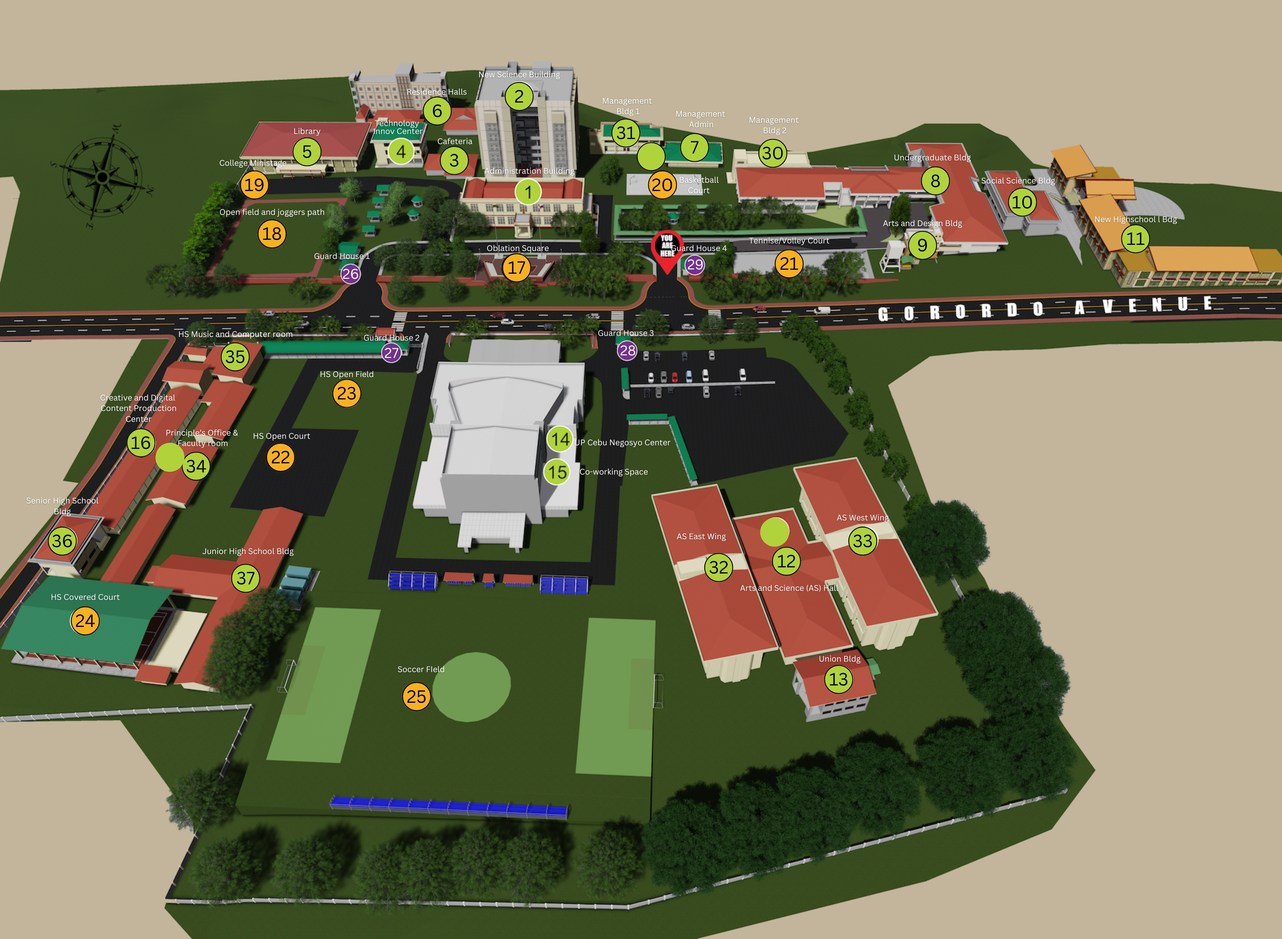
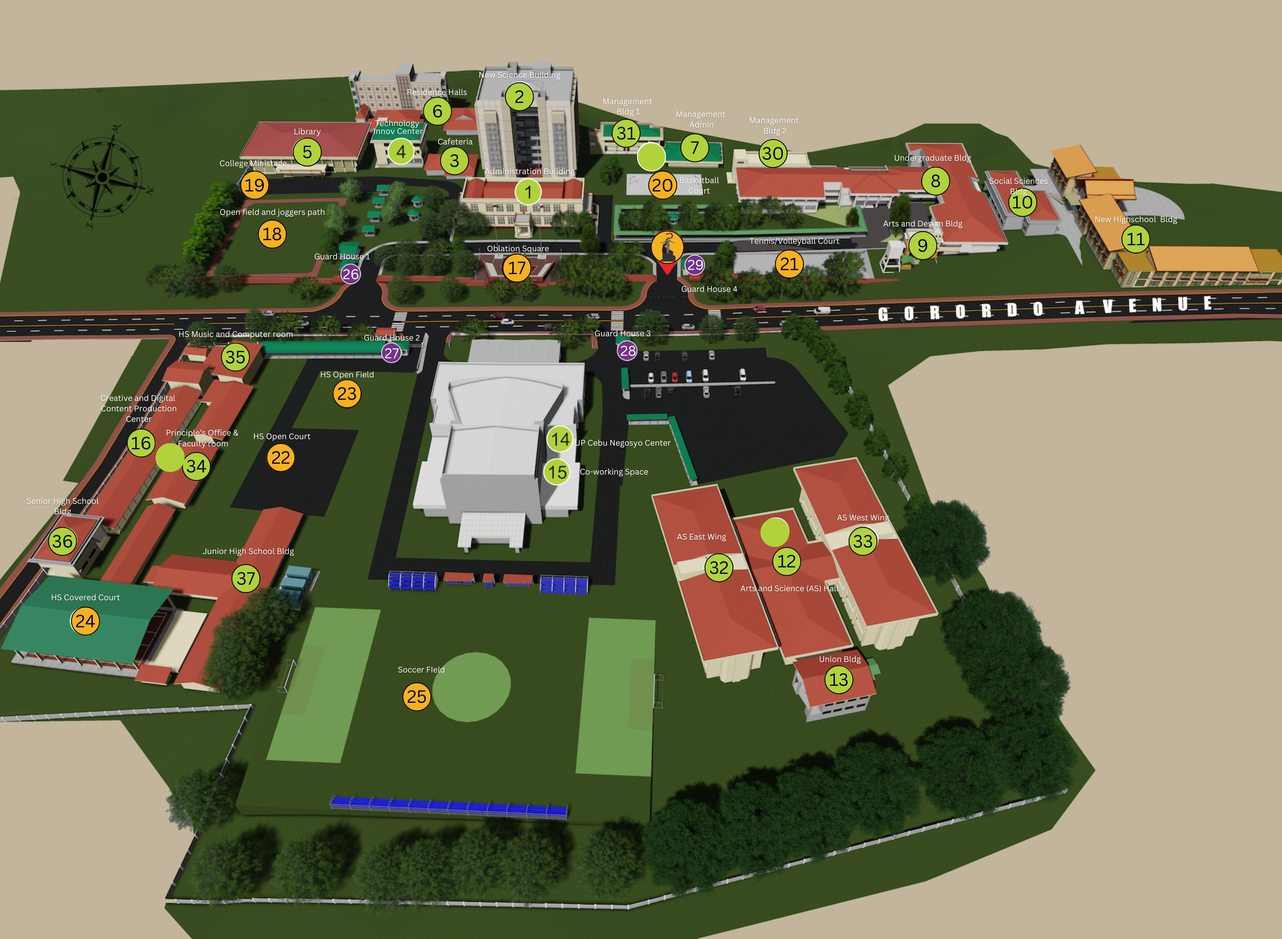
updated changes to legend

diff --git a/RoamMateGUI/roam-school/mainwindow.cpp b/RoamMateGUI/roam-school/mainwindow.cpp
@@ -1,5 +1,6 @@
 #include "mainwindow.h"
 #include "ui_mainwindow.h"
+#include "imagewindow.h"
 #include "dijkstra_algorithm.h"
 #include <QFile>
 #include <cstring>
@@ -26,9 +27,8 @@ MainWindow::MainWindow(QWidget *parent)
 
     QPixmap backgroundImage(":/resources/files/school-map.jpg");
 
-
     // Scale the background image
-    backgroundImage = backgroundImage.scaled(backgroundImage.size() * 0.5); // Increase size by a factor of 1.25
+    backgroundImage = backgroundImage.scaled(backgroundImage.size() * 0.5);
 
     // Create a label to display the background image
     QLabel *backgroundLabel = new QLabel;
@@ -41,16 +41,17 @@ MainWindow::MainWindow(QWidget *parent)
     setCentralWidget(scrollArea);
 
     // Create a widget to overlay on top of the background image
-    QWidget *overlayWidget = new QWidget(this);
-    overlayWidget->setGeometry(10, 10, 400, 350);  // Adjust the size and position as needed
+    overlayWidget1 = new QWidget(this);
+    overlayWidget1->setGeometry(10, 10, 400, 350);
 
     // Define the custom stylesheet
     QString stylesheet = R"(
-        QWidget#overlayWidget {
+        QWidget#overlayWidget1 {
             background-color: rgba(102, 25, 19, 200);
             border: 1px solid #000000;
             border-radius: 10px;
         }
+
         QLabel {
             font-size: 14px;
             font-weight: bold;
@@ -86,22 +87,25 @@ MainWindow::MainWindow(QWidget *parent)
             width: auto;
             border: none;
         }
+        QToolButton#toggleButton2 {
+            background-color: white;
+        }
     )";
 
-    // Apply the stylesheet to the overlay widget and its children
-    overlayWidget->setObjectName("overlayWidget");
-    overlayWidget->setStyleSheet(stylesheet);
+    // Apply the stylesheet to the overlay widgets and their children
+    overlayWidget1->setObjectName("overlayWidget1");
+    overlayWidget1->setStyleSheet(stylesheet);
 
-    // Create labels and comboboxes
-    QLabel *sourceLabel = new QLabel("Source:", overlayWidget);
-    QLabel *destinationLabel = new QLabel("Destination:", overlayWidget);
+    // Create labels and comboboxes for the first overlay widget
+    QLabel *sourceLabel = new QLabel("Source:", overlayWidget1);
+    QLabel *destinationLabel = new QLabel("Destination:", overlayWidget1);
 
     // Set alignment for the labels
     sourceLabel->setAlignment(Qt::AlignRight | Qt::AlignVCenter);
     destinationLabel->setAlignment(Qt::AlignRight | Qt::AlignVCenter);
 
-    sourceBox = new QComboBox(overlayWidget);
-    destinationBox = new QComboBox(overlayWidget);
+    sourceBox = new QComboBox(overlayWidget1);
+    destinationBox = new QComboBox(overlayWidget1);
 
     QString filepath = ":/resources/files/mapping.csv";
     readToComboBoxFromFile(filepath);
@@ -112,35 +116,33 @@ MainWindow::MainWindow(QWidget *parent)
     connect(sourceBox, QOverload<int>::of(&QComboBox::currentIndexChanged), this, &MainWindow::on_sourceBox_currentIndexChanged);
     connect(destinationBox, QOverload<int>::of(&QComboBox::currentIndexChanged), this, &MainWindow::on_destinationBox_currentIndexChanged);
 
-
-    // Create the additional widgets
-    outputTextEdit = new QPlainTextEdit(overlayWidget);
-    outputLineEdit = new QLineEdit(overlayWidget);
+    // Create the additional widgets for the first overlay widget
+    outputTextEdit = new QPlainTextEdit(overlayWidget1);
+    outputLineEdit = new QLineEdit(overlayWidget1);
     outputTextEdit->setReadOnly(true);
     outputLineEdit->setReadOnly(true);
 
-    QPushButton *submitButton = new QPushButton("Submit", overlayWidget);
+    QPushButton *submitButton = new QPushButton("Submit", overlayWidget1);
     // Connect the clicked signal of the QPushButton to the submitButtonClicked slot function
     connect(submitButton, &QPushButton::clicked, this, &MainWindow::submitButtonClicked);
 
-    // Create labels
-    QLabel *outputTextLabel = new QLabel("Shortest Path:", overlayWidget);
-    QLabel *outputLineEditLabel = new QLabel("Distance Covered:", overlayWidget);
+    // Create labels for the first overlay widget
+    QLabel *outputTextLabel = new QLabel("Shortest Path:", overlayWidget1);
+    QLabel *outputLineEditLabel = new QLabel("Distance Covered:", overlayWidget1);
 
-    // Create a layout for the overlay widget
-    QVBoxLayout *overlayLayout = new QVBoxLayout(overlayWidget);
-    overlayLayout->addWidget(sourceLabel);
-    overlayLayout->addWidget(sourceBox);
-    overlayLayout->addWidget(destinationLabel);
-    overlayLayout->addWidget(destinationBox);
-    overlayLayout->addWidget(outputTextLabel);
-    overlayLayout->addWidget(outputTextEdit);
-    overlayLayout->addWidget(outputLineEditLabel);
-    overlayLayout->addWidget(outputLineEdit);
-    overlayLayout->addWidget(submitButton);
+    // Create a layout for the first overlay widget
+    QVBoxLayout *overlayLayout1 = new QVBoxLayout(overlayWidget1);
+    overlayLayout1->addWidget(sourceLabel);
+    overlayLayout1->addWidget(sourceBox);
+    overlayLayout1->addWidget(destinationLabel);
+    overlayLayout1->addWidget(destinationBox);
+    overlayLayout1->addWidget(outputTextLabel);
+    overlayLayout1->addWidget(outputTextEdit);
+    overlayLayout1->addWidget(outputLineEditLabel);
+    overlayLayout1->addWidget(outputLineEdit);
+    overlayLayout1->addWidget(submitButton);
 
     // Create the toggle button
-
     QToolButton *toggleButton = new QToolButton(this);
     toggleButton->setIcon(QIcon(":/resources/files/magnifying.png")); // Add your icon here
     toggleButton->setIconSize(QSize(100, 100));
@@ -148,12 +150,23 @@ MainWindow::MainWindow(QWidget *parent)
     toggleButton->setStyleSheet(stylesheet);
 
     // Connect the toggle button to a slot to toggle the overlay visibility
-    connect(toggleButton, &QToolButton::clicked, [overlayWidget]() {
-        overlayWidget->setVisible(!overlayWidget->isVisible());
+    connect(toggleButton, &QToolButton::clicked, this, [this]() {
+        overlayWidget1->setVisible(!overlayWidget1->isVisible());
     });
 
-    // Ensure the overlay widget and toggle button are always on top
-    overlayWidget->raise();
+    //Create the toggle button for the second overlay widget
+    QToolButton *toggleButton2 = new QToolButton(this);
+    toggleButton2->setIcon(QIcon(":/resources/files/point.png")); // Add your icon here
+    toggleButton2->setIconSize(QSize(100, 100));
+    toggleButton2->setGeometry(width() - 10, 9, 35, 35);  // Adjust the size and position as needed
+    toggleButton2->setStyleSheet(stylesheet);
+
+    // Connect the toggle button to open ImageWindow
+    connect(toggleButton2, &QToolButton::clicked, this, &MainWindow::toggleButton2Clicked);
+
+
+    // Ensure the overlay widgets and toggle button are always on top
+    overlayWidget1->raise();
     toggleButton->raise();
 }
 
@@ -161,6 +174,7 @@ MainWindow::~MainWindow()
 {
     delete ui;
 }
+
 
 
 void MainWindow::readToComboBoxFromFile(const QString &filePath) {
@@ -183,6 +197,16 @@ void MainWindow::readToComboBoxFromFile(const QString &filePath) {
     }
 
     file.close();
+}
+
+void MainWindow::toggleButton2Clicked()
+{
+    // Specify the file path to the image
+    QString imagePath = ":/resources/files/Legend.png"; // Update with your image file path
+
+    // Open the ImageWindow with the specified image file path
+    ImageWindow *imageWindow = new ImageWindow(imagePath, this);
+    imageWindow->show();
 }
 
 void MainWindow::submitButtonClicked() {

diff --git a/RoamMateGUI/roam-school/imagewindow.cpp b/RoamMateGUI/roam-school/imagewindow.cpp
@@ -1,0 +1,38 @@
+#include "imagewindow.h"
+#include <QGuiApplication>
+#include <QScreen>
+
+ImageWindow::ImageWindow(const QString &imageFilePath, QWidget *parent)
+    : QMainWindow(parent), imageLabel(new QLabel)
+{
+    setWindowTitle("Legend");
+    setMinimumSize(342, 608);
+
+    // Create layout
+    mainLayout = new QVBoxLayout;
+    mainLayout->setContentsMargins(0, 0, 0, 0);
+
+    // Load the image from the file path
+    QPixmap image(imageFilePath);
+    if (!image.isNull()) {
+        // Set aspect ratio policy
+        imageLabel->setPixmap(image);
+        imageLabel->setScaledContents(true);
+        imageLabel->setSizePolicy(QSizePolicy::Ignored, QSizePolicy::Ignored);
+        mainLayout->addWidget(imageLabel);
+    } else {
+        imageLabel->setText("Failed to load image.");
+        mainLayout->addWidget(imageLabel);
+    }
+
+    // Set central widget
+    QWidget *centralWidget = new QWidget(this);
+    centralWidget->setLayout(mainLayout);
+    setCentralWidget(centralWidget);
+
+    // Set the window's initial position
+    QRect screenGeometry = QGuiApplication::primaryScreen()->geometry();
+    int x = (screenGeometry.width() - width());
+    int y = 0;
+    move(x, y);
+}

diff --git a/RoamMateGUI/roam-school/mainwindow.h b/RoamMateGUI/roam-school/mainwindow.h
@@ -1,11 +1,12 @@
 #ifndef MAINWINDOW_H
 #define MAINWINDOW_H
 
-#include "qplaintextedit.h"
 #include <QMainWindow>
 #include <QLabel>
 #include <QScrollArea>
 #include <QComboBox>
+#include <QPlainTextEdit>
+#include <QLineEdit>
 
 QT_BEGIN_NAMESPACE
 namespace Ui {
@@ -25,6 +26,8 @@ private slots:
     void submitButtonClicked();
     void on_sourceBox_currentIndexChanged();
     void on_destinationBox_currentIndexChanged();
+    void toggleButton2Clicked();
+
 
 private:
     Ui::MainWindow *ui;
@@ -35,5 +38,10 @@ private:
     QComboBox *destinationBox;
     QPlainTextEdit *outputTextEdit;
     QLineEdit *outputLineEdit;
+    QWidget *overlayWidget1;
+    QWidget *overlayWidget2;
+    QLabel *imageLabel;
+    QPixmap originalPixmap;
+
 };
 #endif // MAINWINDOW_H

diff --git a/RoamMateGUI/roam-school/imagewindow.h b/RoamMateGUI/roam-school/imagewindow.h
@@ -1,0 +1,20 @@
+#ifndef IMAGEWINDOW_H
+#define IMAGEWINDOW_H
+
+#include <QMainWindow>
+#include <QLabel>
+#include <QVBoxLayout>
+
+class ImageWindow : public QMainWindow
+{
+    Q_OBJECT
+
+public:
+    explicit ImageWindow(const QString &imageFilePath, QWidget *parent = nullptr);
+
+private:
+    QLabel *imageLabel;
+    QVBoxLayout *mainLayout;
+};
+
+#endif // IMAGEWINDOW_H
